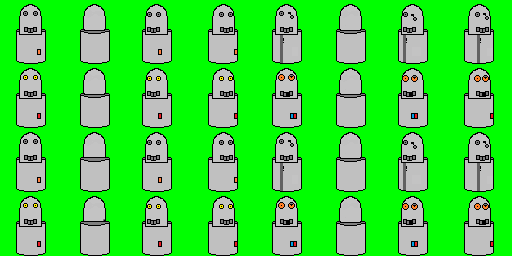
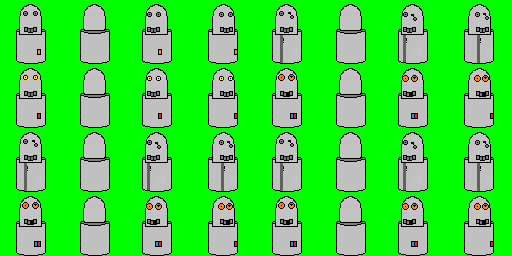
display items in chest

diff --git a/sdl_camera.cpp b/sdl_camera.cpp
@@ -181,6 +181,37 @@ SDL_Rect MapView::getTileRect(int tile_x, int tile_y) const {
     return dest;
 }
 
+// render objects
+void MapView::renderObjects(SDLCamera* sdl_camera, std::string& tile_text) {
+    for( auto position_object : data_->objects() ) {
+        SDL_Rect dest = getTileRect(position_object.x,position_object.y);
+        position_object.object->render(sdl_camera, dest);
+        if( tile_x_ == position_object.x && tile_y_ == position_object.y ) {
+            // add object name on tile tooltip
+            tile_text.append("\n");
+            tile_text.append(position_object.object->tooltip());
+        }
+    }
+}
+
+void MapView::renderJobs(SDLCamera* sdl_camera) {
+    // display jobs (in semi transparency)
+    for( auto job : job_manager_->jobs() ) {
+        int job_x = job->tilePosition().x;
+        int job_y = job->tilePosition().y;
+        SDL_Rect dest = getTileRect(job_x, job_y);
+        job_manager_->render(*job, sdl_camera, dest);
+    }
+}
+
+void MapView::renderGroup(SDLCamera* sdl_camera) {
+    // display people
+    for( Character* people : group_->group() ) {
+        SDL_Rect dest = getPeopleRect(people);
+        people->render(sdl_camera, dest);
+    }
+}
+
 void MapView::do_render(Camera* camera, double delay_in_ms) {
     float scale_speed = camera->scale()*camera->scale();
     if( camera->scale() < 1 ) {
@@ -299,30 +330,11 @@ void MapView::do_render(Camera* camera, double delay_in_ms) {
         }
     }
 
-    // render objects
-    for( auto position_object : data_->objects() ) {
-        SDL_Rect dest = getTileRect(position_object.x,position_object.y);
-        position_object.object->render(sdl_camera, dest);
-        if( tile_x_ == position_object.x && tile_y_ == position_object.y ) {
-            // add object name on tile tooltip
-            tile_text.append("\n");
-            tile_text.append(tr(position_object.object->userName()));
-        }
-    }
+    renderObjects(sdl_camera, tile_text);
 
-    // display jobs (in semi transparency)
-    for( auto job : job_manager_->jobs() ) {
-        int job_x = job->tilePosition().x;
-        int job_y = job->tilePosition().y;
-        SDL_Rect dest = getTileRect(job_x, job_y);
-        job_manager_->render(*job, sdl_camera, dest);
-    }
+    renderJobs(sdl_camera);
 
-    // display people
-    for( Character* people : group_->group() ) {
-        SDL_Rect dest = getPeopleRect(people);
-        people->render(sdl_camera, dest);
-    }
+    renderGroup(sdl_camera);
 
     // display a circle around selected people if any
     if( selected_people_ != nullptr ) {
@@ -558,21 +570,33 @@ SDLCamera::SDLCamera(
     manager_->addButton(extract_button_tool);
     excavation_menu->addButton(extract_button_tool);
 
+    SDLCleanTool* clean_tool = new SDLCleanTool(this, "balai_tool.png");
+    extract_button_tool = new SDLToolButton(clean_tool, "balai_tool.png", 0, 0);
+    manager_->addButton(extract_button_tool);
+    excavation_menu->addButton(extract_button_tool);
+
     extract_tool = new SDLExtractTool(this, "extract_tool_10.png", 10);
     extract_button_tool = new SDLToolButton(extract_tool, "extract_tool_10.png", 0, 0);
     manager_->addButton(extract_button_tool);
     excavation_menu->addButton(extract_button_tool);
 
-    SDLCleanTool* clean_tool = new SDLCleanTool(this, "balai_tool.png");
-    extract_button_tool = new SDLToolButton(clean_tool, "balai_tool.png", 0, 0);
+    extract_tool = new SDLExtractTool(this, "pelle_tool_10.png", 10);
+    extract_button_tool = new SDLToolButton(extract_tool, "pelle_tool_10.png", 0, 0);
     manager_->addButton(extract_button_tool);
     excavation_menu->addButton(extract_button_tool);
+
+
 
     manager_->addButton( new SDLButtonMenu(excavation_menu, "excavation.png", 70,10) );
     manager_->addMenuButton( excavation_menu );
 
     // Add Object menu
     MenuButton* object_menu = new MenuButton(max_column, 130, 75);
+
+    SDLBuildObjectTool* workbench_tool = new SDLBuildObjectTool(this, "objects/workbench.png", "workbench");
+    SDLButton* workbench_button_tool = new SDLToolButton(workbench_tool, "objects/workbench.png", 0, 0);
+    manager_->addButton(workbench_button_tool);
+    object_menu->addButton(workbench_button_tool);
 
     SDLBuildObjectTool* chest_tool = new SDLBuildObjectTool(this, "objects/chest.png", "chest");
     SDLButton* chest_button_tool = new SDLToolButton(chest_tool, "objects/chest.png", 0, 0);
@@ -588,7 +612,7 @@ SDLCamera::SDLCamera(
     manager_->addMenuButton( object_menu );
 
     // Add Quit Button
-    manager_->addButton( new SDLQuitButton(this, 750,10) );
+    manager_->addButton( new SDLQuitButton(this, Camera::cur_camera->width()-50,10) );
 }
 
 SDLCamera::~SDLCamera() {
@@ -621,18 +645,18 @@ void SDLCamera::render(double delay_in_ms) {
         // display the 'pause' button
         SDL_SetRenderDrawColor( main_renderer_, 250, 250, 250, 255 );
         SDL_Rect r;
-        r.x = 360;
-        r.y = 240;
+        r.x = Camera::cur_camera->width() / 2 - 40;
+        r.y = Camera::cur_camera->height() / 2 - 60;
         r.w = 70;
         r.h = 70;
         SDL_RenderFillRect( main_renderer_, &r );
         SDL_SetRenderDrawColor( main_renderer_, 222, 50, 50, 255 );
-        r.x = 370;
-        r.y = 250;
+        r.x = Camera::cur_camera->width() / 2 - 30;
+        r.y = Camera::cur_camera->height() / 2 - 50;
         r.w = 20;
         r.h = 50;
         SDL_RenderFillRect( main_renderer_, &r );
-        r.x = 400;
+        r.x = Camera::cur_camera->width() / 2;
         SDL_RenderFillRect( main_renderer_, &r );
 
         std::vector<std::string> option_list;
@@ -651,7 +675,7 @@ void SDLCamera::render(double delay_in_ms) {
         text.set_position(0,0);
         SDL_SetRenderDrawColor( main_renderer_, 250, 250, 250, 255 );
         text.texture(main_renderer_); // need to create texture in order to get correct text dimension
-        text.set_position(400 - text.rect().w / 2, 120 - text.rect().h / 2);
+        text.set_position(Camera::cur_camera->width()/2 - text.rect().w / 2, 120 - text.rect().h / 2);
         SDL_RenderFillRect( main_renderer_, &text.rect() );
         displayText(text);
     }
@@ -662,7 +686,7 @@ void SDLCamera::render(double delay_in_ms) {
     mouse_position.append(" ");
     mouse_position.append(Utility::itos(mouse_y()));
     SDLText text(mouse_position, "pixel11", 14, SDLText::red());
-    text.set_position(10,580);
+    text.set_position(10,Camera::cur_camera->height()-30);
     displayText(text);
     // end debug
 
@@ -693,7 +717,7 @@ void SDLCamera::render(double delay_in_ms) {
         } else if( max_terminal_strings > 0 ) {
             // display logger string
             SDLText text(log.full_string(), "pixel11", 14, (log.type() == "Info") ? SDLText::yellow() : ((log.type() == "Error") ? SDLText::red() : SDLText::black()));
-            text.set_position(30,550-text_offset);
+            text.set_position(30,Camera::cur_camera->height()-50-text_offset);
             this->displayText(text, true);
             max_terminal_strings--;
             text_offset += text.rect().h + 3;

diff --git a/object.cpp b/object.cpp
@@ -2,6 +2,7 @@
 #include "translator.h"
 
 #include <iostream>
+#include <algorithm>
 #include "sdl_camera.h"
 
 /********************************************************************/
@@ -37,6 +38,37 @@ void Object::render(SDLCamera* camera, const SDL_Rect& original_rect) {
 /********************************************************************/
 
 Chest::Chest(int size) : Object("objects/chest.png", tr("Chest"), "chest"), max_size_(size) {
+    // debug
+    addItem(BasicItem("stone"), 5);
+    addItem(BasicItem("sand"), 3);
+    addItem(BasicItem("copper_cable"), 2);
+    addItem(BasicItem("coal"), 10);
+    // end debug
+}
+
+void Chest::render(SDLCamera* sdl_camera, const SDL_Rect& rect) {
+    // first: display texture of the chest
+    Object::render(sdl_camera, rect);
+    // second: display items stored in the chest
+    const std::vector<CountedItem>& items = this->items();
+    int scaled_tile_size = Utility::tileSize * sdl_camera->scale();
+    for( int i = 0; i < std::min(4, int(items.size())); i++ ) {
+        const CountedItem& cur = items[i];
+
+        SDL_Texture* item_texture = cur.texture();
+        SDL_Rect dest;
+        int half_scaled_tile_size = scaled_tile_size/2;
+        dest.x = rect.x; // + half_scaled_tile_size/2;
+        if( i == 1 ) dest.x += half_scaled_tile_size;
+        if( i == 3 ) dest.x += half_scaled_tile_size;
+        dest.y = rect.y; // + half_scaled_tile_size/2;
+        if( i == 2 ) dest.y += half_scaled_tile_size;
+        if( i == 3 ) dest.y += half_scaled_tile_size;
+        dest.w = half_scaled_tile_size;
+        dest.h = half_scaled_tile_size;
+        sdl_camera->displayTexture(item_texture, &dest);
+    }
+
 }
 
 // return the number of items not added in this Chest
@@ -98,9 +130,29 @@ int Chest::removeItem(const BasicItem& item, int count) {
     return total_count;
 }
 
+const std::string Chest::tooltip() const {
+    std::string text = Object::tooltip();
+    if( items_.size() == 0 ) {
+        return text;
+    }
+    text.append(":");
+    for(auto item : items_) {
+        text.append(" ");
+        std::string s = tr(item.item().name());
+        std::replace(s.begin(), s.end(), '_', ' ');
+        text.append(s);
+        text.append("x");
+        text.append( Utility::itos(item.count()) );
+    }
+    return text;
+}
+
 /********************************************************************/
 
 StoneFurnace::StoneFurnace() : Object("objects/stone_furnace.png", tr("StoneFurnace"), "stone_furnace") {
+}
+
+WorkBench::WorkBench() : Object("objects/workbench.png", tr("WorkBench"), "workbench") {
 }
 
 ElectricFurnace::ElectricFurnace() : Object("objects/electric_furnace.png", tr("ElectricFurnace"), "electric_furnace") {

diff --git a/object.h b/object.h
@@ -5,6 +5,7 @@
 #include <string>
 
 #include "utility.h"
+#include "translator.h"
 #include "items.h"
 
 class SDL_Texture;
@@ -19,7 +20,7 @@ public:
     ~Object() {}
 
     SDL_Texture* getTexture(SDLCamera* camera, int index = 0);
-    void render(SDLCamera* camera, const SDL_Rect& rect);
+    virtual void render(SDLCamera* camera, const SDL_Rect& rect);
 
     int pixel_width() const  { return width_; }
     int pixel_height() const  { return height_; }
@@ -29,6 +30,9 @@ public:
     }
     const std::string& name() const {
         return name_;
+    }
+    virtual const std::string tooltip() const {
+        return tr(user_name_);
     }
 
 protected:
@@ -45,9 +49,13 @@ public:
     Chest(int size = 16);
     virtual ~Chest() {}
 
+    virtual void render(SDLCamera* camera, const SDL_Rect& rect) override;
+
     const CountedItem& item(int index) const {
         return items_[index];
     }
+
+    const std::vector<CountedItem>& items() const { return items_; }
 
     int addItem(const BasicItem& item, int count = 1);
     int removeItem(const BasicItem& item, int count = 1);
@@ -56,9 +64,17 @@ public:
         return max_size_ - items_.size();
     }
 
+    virtual const std::string tooltip() const override;
+
 protected:
     int max_size_;
     std::vector<CountedItem> items_;
+};
+
+class WorkBench : public Object {
+public:
+    WorkBench();
+    virtual ~WorkBench() {}
 };
 
 class StoneFurnace : public Object {

diff --git a/main.cpp b/main.cpp
@@ -30,7 +30,7 @@ int main(int argc, char** argv) {
     SDL_Init(SDL_INIT_VIDEO);
 
     // Create window
-    SDLCamera* camera = new SDLCamera(800,600);
+    SDLCamera* camera = new SDLCamera(1000,800);
     if( !camera->valid() ) {
         delete camera;
         return -1;
@@ -75,6 +75,12 @@ int main(int argc, char** argv) {
         if( group.group().size() == 0 ) {
             Position position = {2,1};
             Character* people = new Character("Bob", position, 0);
+            people->setDirection(1,0);
+            group.add(people);
+        }
+        if( group.group().size() == 1 ) {
+            Position position = {1,1};
+            Character* people = new Character("Bill", position, 5);
             people->setDirection(1,0);
             group.add(people);
         }

diff --git a/tests.cpp b/tests.cpp
@@ -202,6 +202,12 @@ bool ChestTest::do_execute() {
     Chest chest(16);
     BasicItem stone("stone");
     int result = chest.addItem(stone, 3);
+    // debug only
+    result = chest.removeItem(stone, 5);
+    result = chest.removeItem(BasicItem("sand"), 3);
+    result = chest.removeItem(BasicItem("copper_cable"), 2);
+    result = chest.removeItem(BasicItem("coal"), 10);
+    // end debug
     result = chest.addItem(stone, 2);
     CHECK_EQUAL( result, 0, return false; );
     CHECK_EQUAL( chest.sizeAvailable(), 15, return false; );

diff --git a/craft_mgr.cpp b/craft_mgr.cpp
@@ -52,7 +52,7 @@ void CraftMgr::loadCrafts(const std::string& filename) {
     Craft* stone_furnace = new Craft("StoneFurnace", Craft::CraftType::OBJECT, 5);
     vector<Craft*> crafts;
     crafts.push_back(stone_furnace);
-    crafts_by_machine_.insert( pair<string,vector<Craft*>>("Etabli", crafts) );
+    crafts_by_machine_.insert( pair<string,vector<Craft*>>("WorkBench", crafts) );
     // end debug
 
     file.close();

diff --git a/job.cpp b/job.cpp
@@ -20,6 +20,10 @@ Job::Job(
 Object* BuildObjectJob::getObject() const {
     if( object_name_ == "chest" ) {
         return new Chest(4);
+    } else if( object_name_ == "workbench" ) {
+        return new WorkBench();
+    } else if( object_name_ == "electric_furnace" ) {
+        return new ElectricFurnace();
     } else if( object_name_ == "stone_furnace" ) {
         return new StoneFurnace();
     }

diff --git a/archive.cpp b/archive.cpp
@@ -332,6 +332,8 @@ void ObjectConverter::load(const std::string& str) {
         Object* object = nullptr;
         if( name == "chest" ) {
             object = new Chest(4);
+        } else if( name == "workbench" ) {
+            object = new WorkBench();
         } else if( name == "stone_furnace" ) {
             object = new StoneFurnace();
         } else if( name == "electric_furnace" ) {

diff --git a/sdl_camera.h b/sdl_camera.h
@@ -48,6 +48,10 @@ protected:
     SDL_Rect getPeopleRect(Character* people) const;
     SDL_Rect getTileRect(int tile_x, int tile_y) const;
 
+    void renderObjects(SDLCamera* sdl_camera, std::string& tile_text);
+    void renderJobs(SDLCamera* sdl_camera);
+    void renderGroup(SDLCamera* sdl_camera);
+
 private:
     MapData* data_;
     PeopleGroup* group_;

diff --git a/items.h b/items.h
@@ -45,8 +45,9 @@ public:
 
     bool isNull() const;
 
-    SDL_Texture* texture() {
-        return item_.texture();
+    SDL_Texture* texture() const {
+        CountedItem* non_const = const_cast<CountedItem*>(this);
+        return non_const->item_.texture();
     }
 protected:
     BasicItem item_;
